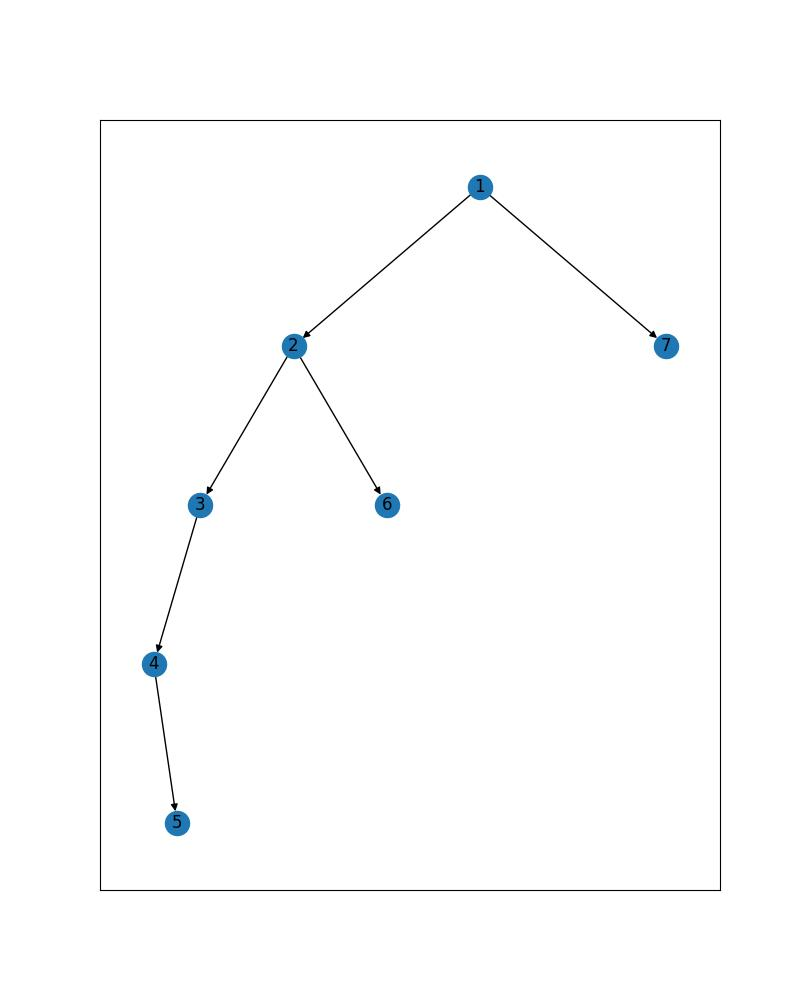
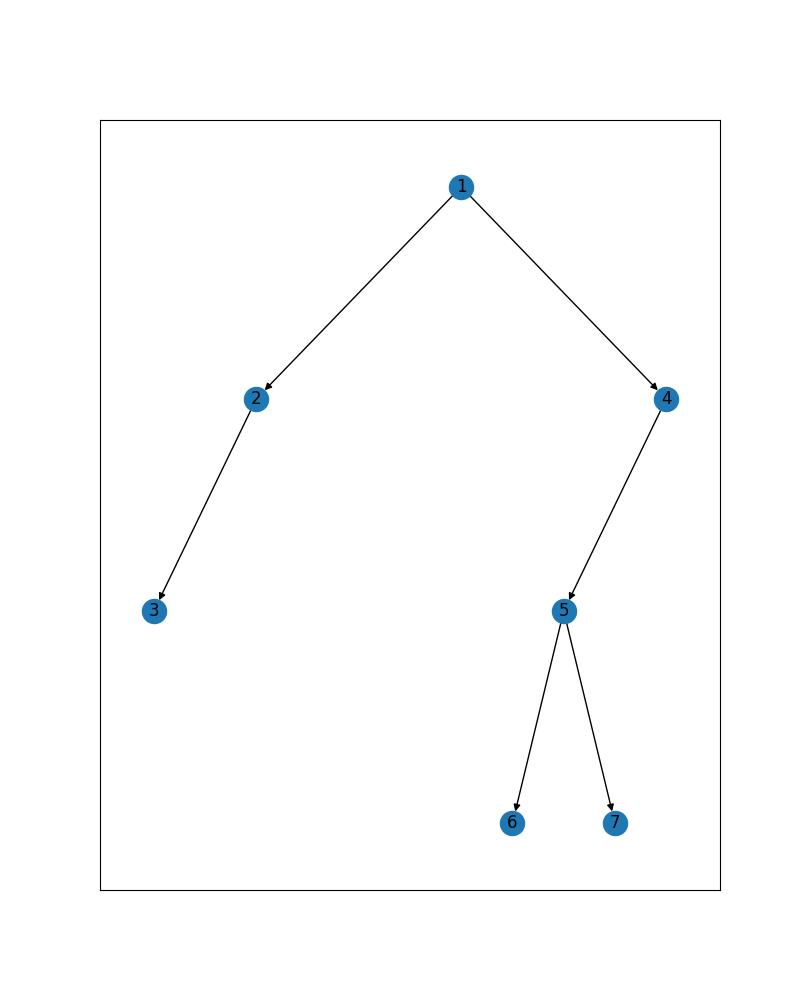
pass order init

diff --git a/main.py b/main.py
@@ -26,10 +26,10 @@ class Tree:
         self.n = n
         self.choice = c
         self.order = []
-        self.preorder = [1, 2, 3, 4, 5, 6, 7]
-        self.inorder = [4, 5, 3, 2, 6, 1, 7]
+        self.preorder = []
+        self.inorder = []
         self.root = None
-        self.direction_list = [1, 1, -1, -1, 1, -1, 1]
+        self.direction_list = []
         self.direction_index = []
         self.comb = []
 
@@ -48,7 +48,23 @@ class Tree:
         self.virtual_node_list = []
         self.counter = 2 * self.n + 1
 
+        # statistic param
+        self.pass_order = list()
+        self.pass_order_list = list()
+
         self.init()
+
+    def pass_order_init(self, node):
+        if node:
+            if node.father:
+                self.pass_order.append(node.value)
+                if node.father.value == 1:
+                    self.pass_order.append(1)
+                    return
+                self.pass_order_init(node.father)
+        if node.value == 1:
+            print('ERROR: INPUT NODE IS ROOT')
+            return
 
     def init(self):
         # init order
@@ -137,11 +153,14 @@ class Tree:
         # self.preorder.insert(0, 1)
         self.random_order(self.inorder)
 
-    def plan_generator(self):
+    def plan_generator(self, a):
         flag = True
-        if self.preorder is None and self.inorder is None:
+        if len(self.preorder) == 0 and len(self.inorder) == 0:
             self.preorder = copy(self.order)
             self.inorder = copy(self.order)
+            self.order_generator()
+
+        if not a:
             self.order_generator()
 
         while flag:
@@ -186,6 +205,7 @@ class Tree:
             print('符合层数要求')
             return 1
         else:
+            print('不符合层数要求')
             return 0
 
     def preorder_reader(self, seed):
@@ -290,9 +310,11 @@ class Tree:
     def main(self):
         flag = True
         # plan layer filter
+        a = 0
         while flag:
-            self.plan_generator()
-            if self.layer_filter():
+            self.plan_generator(a)
+            a = self.layer_filter()
+            if a:
                 flag = False
         # init virtual node
         self.virtual_node_init(self.root)
@@ -332,6 +354,20 @@ class Tree:
                 # draw track
                 self.draw_track(name)
                 print(self.station_track_coordinate)
+
+                # node length init
+
+
+                # pass order init
+                self.pass_order_list = []
+                for j in range(self.n + 1):
+                    self.pass_order = []
+                    self.pass_order_init(self.station_track_node[j])
+                    self.pass_order_list.append(self.pass_order)
+                print(self.pass_order_list)
+
+
+
         else:
             direction_list = copy(self.direction_list)
             print('direction_list:' + str(direction_list))
@@ -341,7 +377,13 @@ class Tree:
             # draw track
             self.draw_track(name)
             print(self.station_track_coordinate)
-
+            # pass order init
+            self.pass_order_list = []
+            for j in range(self.n + 1):
+                self.pass_order = []
+                self.pass_order_init(self.station_track_node[j])
+                self.pass_order_list.append(self.pass_order)
+            print(self.pass_order_list)
 
 
 def printTree(root):
@@ -364,7 +406,7 @@ def printTree(root):
     print(res)
 
 
-class draw():
+class draw:
     def __init__(self, node):
         self.node = node
 
@@ -397,7 +439,7 @@ class draw():
 if __name__ == "__main__":
     s = Tree(7, 5)
     s.main()
-    printTree(s.root)
+    # printTree(s.root)
     d = draw(s.root)
     d.draw_plan()
     # print(numpy.random.randint(1, 6, size=5))
